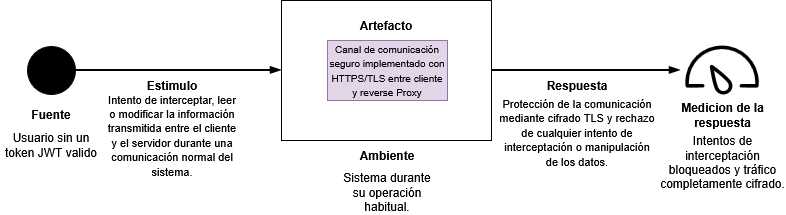
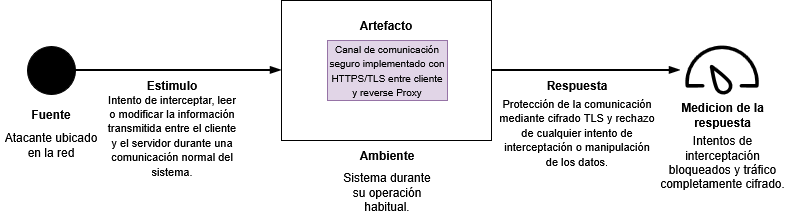
fix del diagrama cyc

Changed region(s): [[0.0, 0.614, 0.1221, 0.7535]]

diff --git a/P3/README.md b/P3/README.md
@@ -55,6 +55,12 @@ Our NeumoDiagnostics system employs multiple architectural views to ensure compr
 #### **🎯 Description of Architectural Elements and Relations:**
 This view describes runtime components, the interfaces they provide/require, and the connectors between them (see figure). It focuses on communication paths and protocols rather than implementation internals.
 
+- User Interfaces
+	- `web browser`: Web-based user interface for accessing the system through graphical interface.
+		- Connectors: HTTPS to `web-front-end`.
+	- `cmd` (Command Line): Terminal-based interface for system access via command-line tools.
+		- Connectors: HTTPS to `cli-front-end`.
+
 - Clients
 	- `web-front-end` (Next.js): UI for doctors and patients.
 		- Connectors: HTTP-REST to `reverse-proxy` for authentication and file uploads; HTTP-GRAPHQL to `reverse-proxy` for data queries/mutations.
@@ -63,7 +69,7 @@ This view describes runtime components, the interfaces they provide/require, and
 
 - Load Balancer and Security Layer
 	- `reverse-proxy` (NginX): Acts as load balancer and security gateway. Single entry point for all client requests.
-		- Provided interfaces: HTTP/HTTPS endpoints for REST and GraphQL.
+		- Provided interfaces: HTTP endpoints for REST and GraphQL.
 		- Required connectors: HTTP-REST and HTTP-GRAPHQL to multiple `api-gateway` instances (load balanced).
 		- Functions: SSL/TLS termination, request filtering, load distribution across API Gateway instances.
 
@@ -94,6 +100,7 @@ This view describes runtime components, the interfaces they provide/require, and
 	- `Radiography Image Storage` and `Profile Image Storage`: binary storage behind file drivers used by `prediagnostic-be` and `auth-be` respectively.
 
 - Connector summary and directionality
+	- HTTPS: `web browser → web-front-end`, `cmd → cli-front-end`.
 	- HTTP-REST: `cli-front-end → reverse-proxy → api-gateway [1,2,3]`.
 	- HTTP-GRAPHQL: `web-front-end → reverse-proxy → api-gateway [1,2,3]`.
 	- HTTP-REST: `web-front-end → reverse-proxy → api-gateway [1,2,3]` (for auth and uploads).
@@ -439,14 +446,14 @@ Our system implements four critical security scenarios to ensure data protection
 </div>
 
 **Description:**
-- **Source (Fuente):** User without a valid token
+- **Source (Fuente):** User with bad intentions
 - **Stimulus (Estímulo):** Attempt to intercept, read, or modify information transmitted between client and server during normal system communication
 - **Artifact (Artefacto):** Secure communication channel implemented with HTTPS/TLS between client and reverse proxy
 - **Environment (Ambiente):** System during its normal operation
 - **Response (Respuesta):** Protection of communication through TLS encryption and rejection of any interception or data manipulation attempts
 - **Response Measure (Medición de la respuesta):** Interception attempts blocked and traffic completely encrypted
 
-**Applied Pattern:** Secure Channel Pattern (HTTPS/TLS with Reverse Proxy)
+**Applied Pattern:** Secure Channel Pattern (HTTPS/TLS)
 
 ---
 
